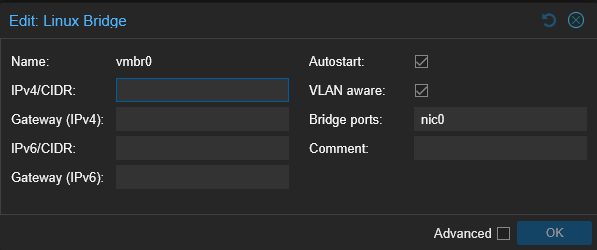
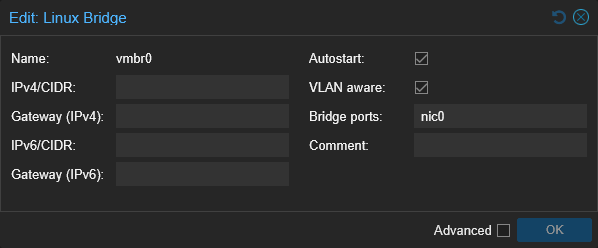
feat(hyperviseur): ajout de la configuration du Bridge port sur la configuration réseau

diff --git a/docs/02-infrastructure-core/hyperviseur/procedures/configuration-reseau-proxmox.md b/docs/02-infrastructure-core/hyperviseur/procedures/configuration-reseau-proxmox.md
@@ -28,7 +28,7 @@ Cette procédure décrit la modification de la configuration réseau post-instal
 
 ## 3. Configuration réseau via l'interface graphique
 
-3.1. **Modification du Bridge par défaut (vmbr0).** Dans le menu de gauche, naviguez vers `[Nom_du_nœud] > System > Network`. Sélectionnez l'interface `vmbr0` et cliquez sur `Edit`. Retirez la configuration IP existante et activez le mode VLAN.
+3.1. **Modification du Bridge par défaut (vmbr0).** Dans le menu de gauche, naviguez vers `[Nom_du_nœud] > System > Network`. Sélectionnez l'interface `vmbr0` et cliquez sur `Edit`. Retirez la configuration IP existante et activez le mode VLAN. **Veiller à ce que `Bridge ports` possède la valeur `nic0`**.
 
   ```text
   Action GUI : Édition des propriétés de vmbr0
